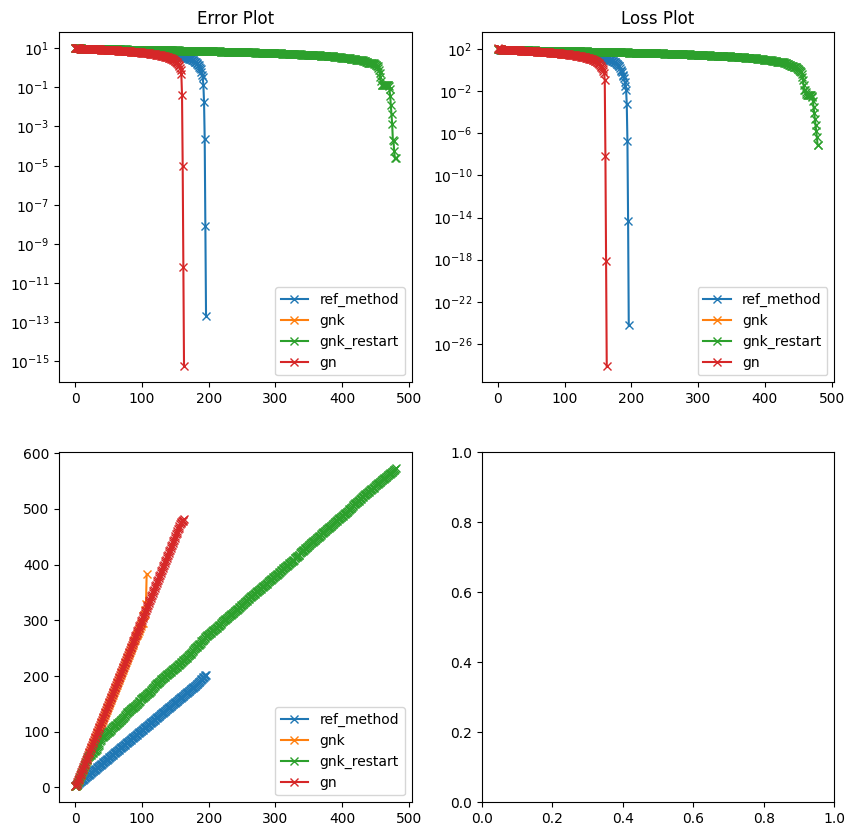
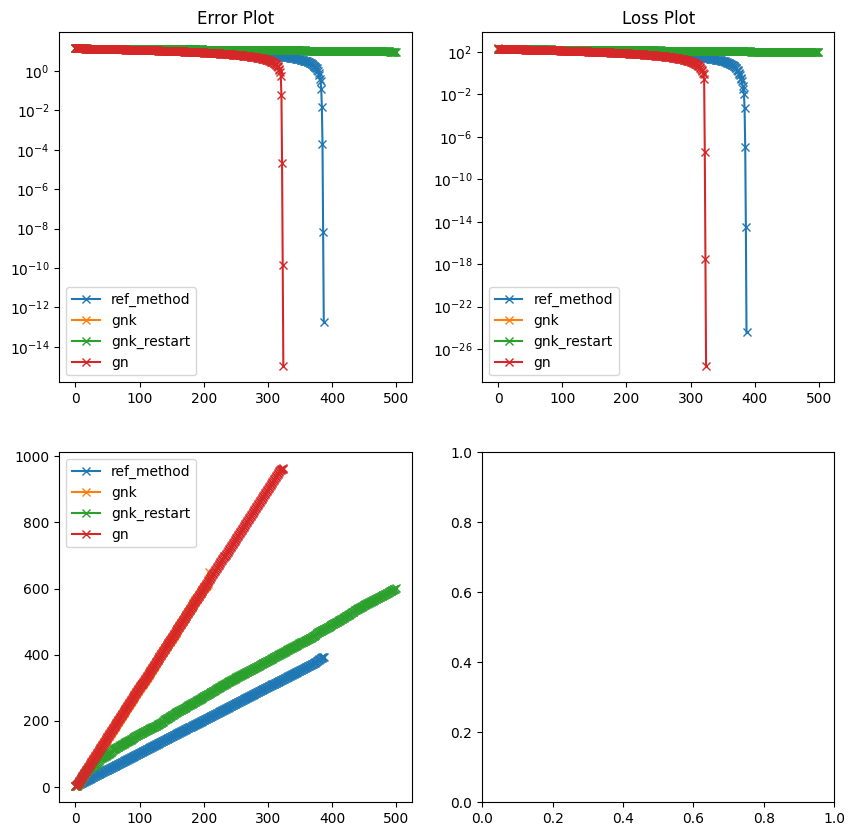
feat: added gnk_ver2 alternative approach to gauss_newton_krylov without classes not shure if this will be better, style: small changes gauss_newton_krylov rosenbrock

diff --git a/gnk_ver2.py b/gnk_ver2.py
@@ -1,0 +1,43 @@
+from collections.abc import Callable
+from typing import Union, Any, Tuple 
+from regression_result import RegressionResult
+from armijo_goldstein import armijo_goldstein
+from call_callback import call_callback
+import numpy as np
+import numpy.typing as npt
+import scipy.sparse as sp
+import scipy
+
+def gauss_newton_krylov(
+        res: Callable[[npt.NDArray,Tuple[Any]],npt.NDArray], 
+        x0: npt.NDArray, 
+        jac: Callable[[npt.NDArray,Tuple[Any]],Union[npt.NDArray,sp.spmatrix,sp.sparray]],
+        krylov_restart: int | None = None,
+        args: Tuple = (),
+        tol: float=1E-8,
+        max_iter=100,
+        callback: Callable=lambda : None)->RegressionResult:
+    """
+    Parameters
+    ----------
+    res: The residual function, called as res(x, *args) the argument x and its return must always be ndarrays.
+    x0: Initial guess of the regression parameters.
+    jac: Called as jac(x,d, *args), should return either a NDArray or a spmatrix, if returned a spmatrix a sparse solver is used to solve the linearised equation.
+    args: Additional arguments passed to res and jac.
+    tol: Tolerance for termination by the change of the paramters x.
+    max_iter: Maximum number of iterations.
+    callback: Called as callback with the following possible positional arguments: x, iter, jac, rank_jac, step_length, nfev. Implementet arguments are automaticaly determined by call_callback.
+
+    Returns
+    -------
+    res: Returns instance of RegressionResult.
+    """
+
+    if np.allclose(x0,np.zeros_like(x0)):
+        raise ValueError("x0 is not allowed to be 0 in the gauss_newton_krylov algorithm")
+
+    success: bool = False
+    rank_jac: int | None = None
+    krylov_max_dim: int = min(max_iter, krylov_restart, len(x0))
+
+

diff --git a/gauss_newton_krylov.py b/gauss_newton_krylov.py
@@ -69,7 +69,7 @@ class Krylov:
         self.jac_ev = self._jac(self.base[:,:self.active_columns]@x_coordinate, *args)
         #normal_res = self.jac_ev.T@res_ev
         if self.active_columns == self.krylov_max_dim and not self.restart:
-            print("Hi")
+            print(f"krylov_max_dim reached, activ_colums= {self.active_columns}")
             return x_coordinate
 
         normal_res = self.jac_ev.T@self.res(x_coordinate,*args)

diff --git a/rosenbrock_test.py b/rosenbrock_test.py
@@ -3,7 +3,7 @@ import scipy.sparse
 from benchmark import benchmark
 
 
-p = 100 # N=2p-2, again not a classical regression model, however 
+p = 200 # N=2p-2, again not a classical regression model, however 
 def res(x):
     block1 = 10*(x[1:]-x[:-1]**2)
     block2 = 1-x[:-1]
